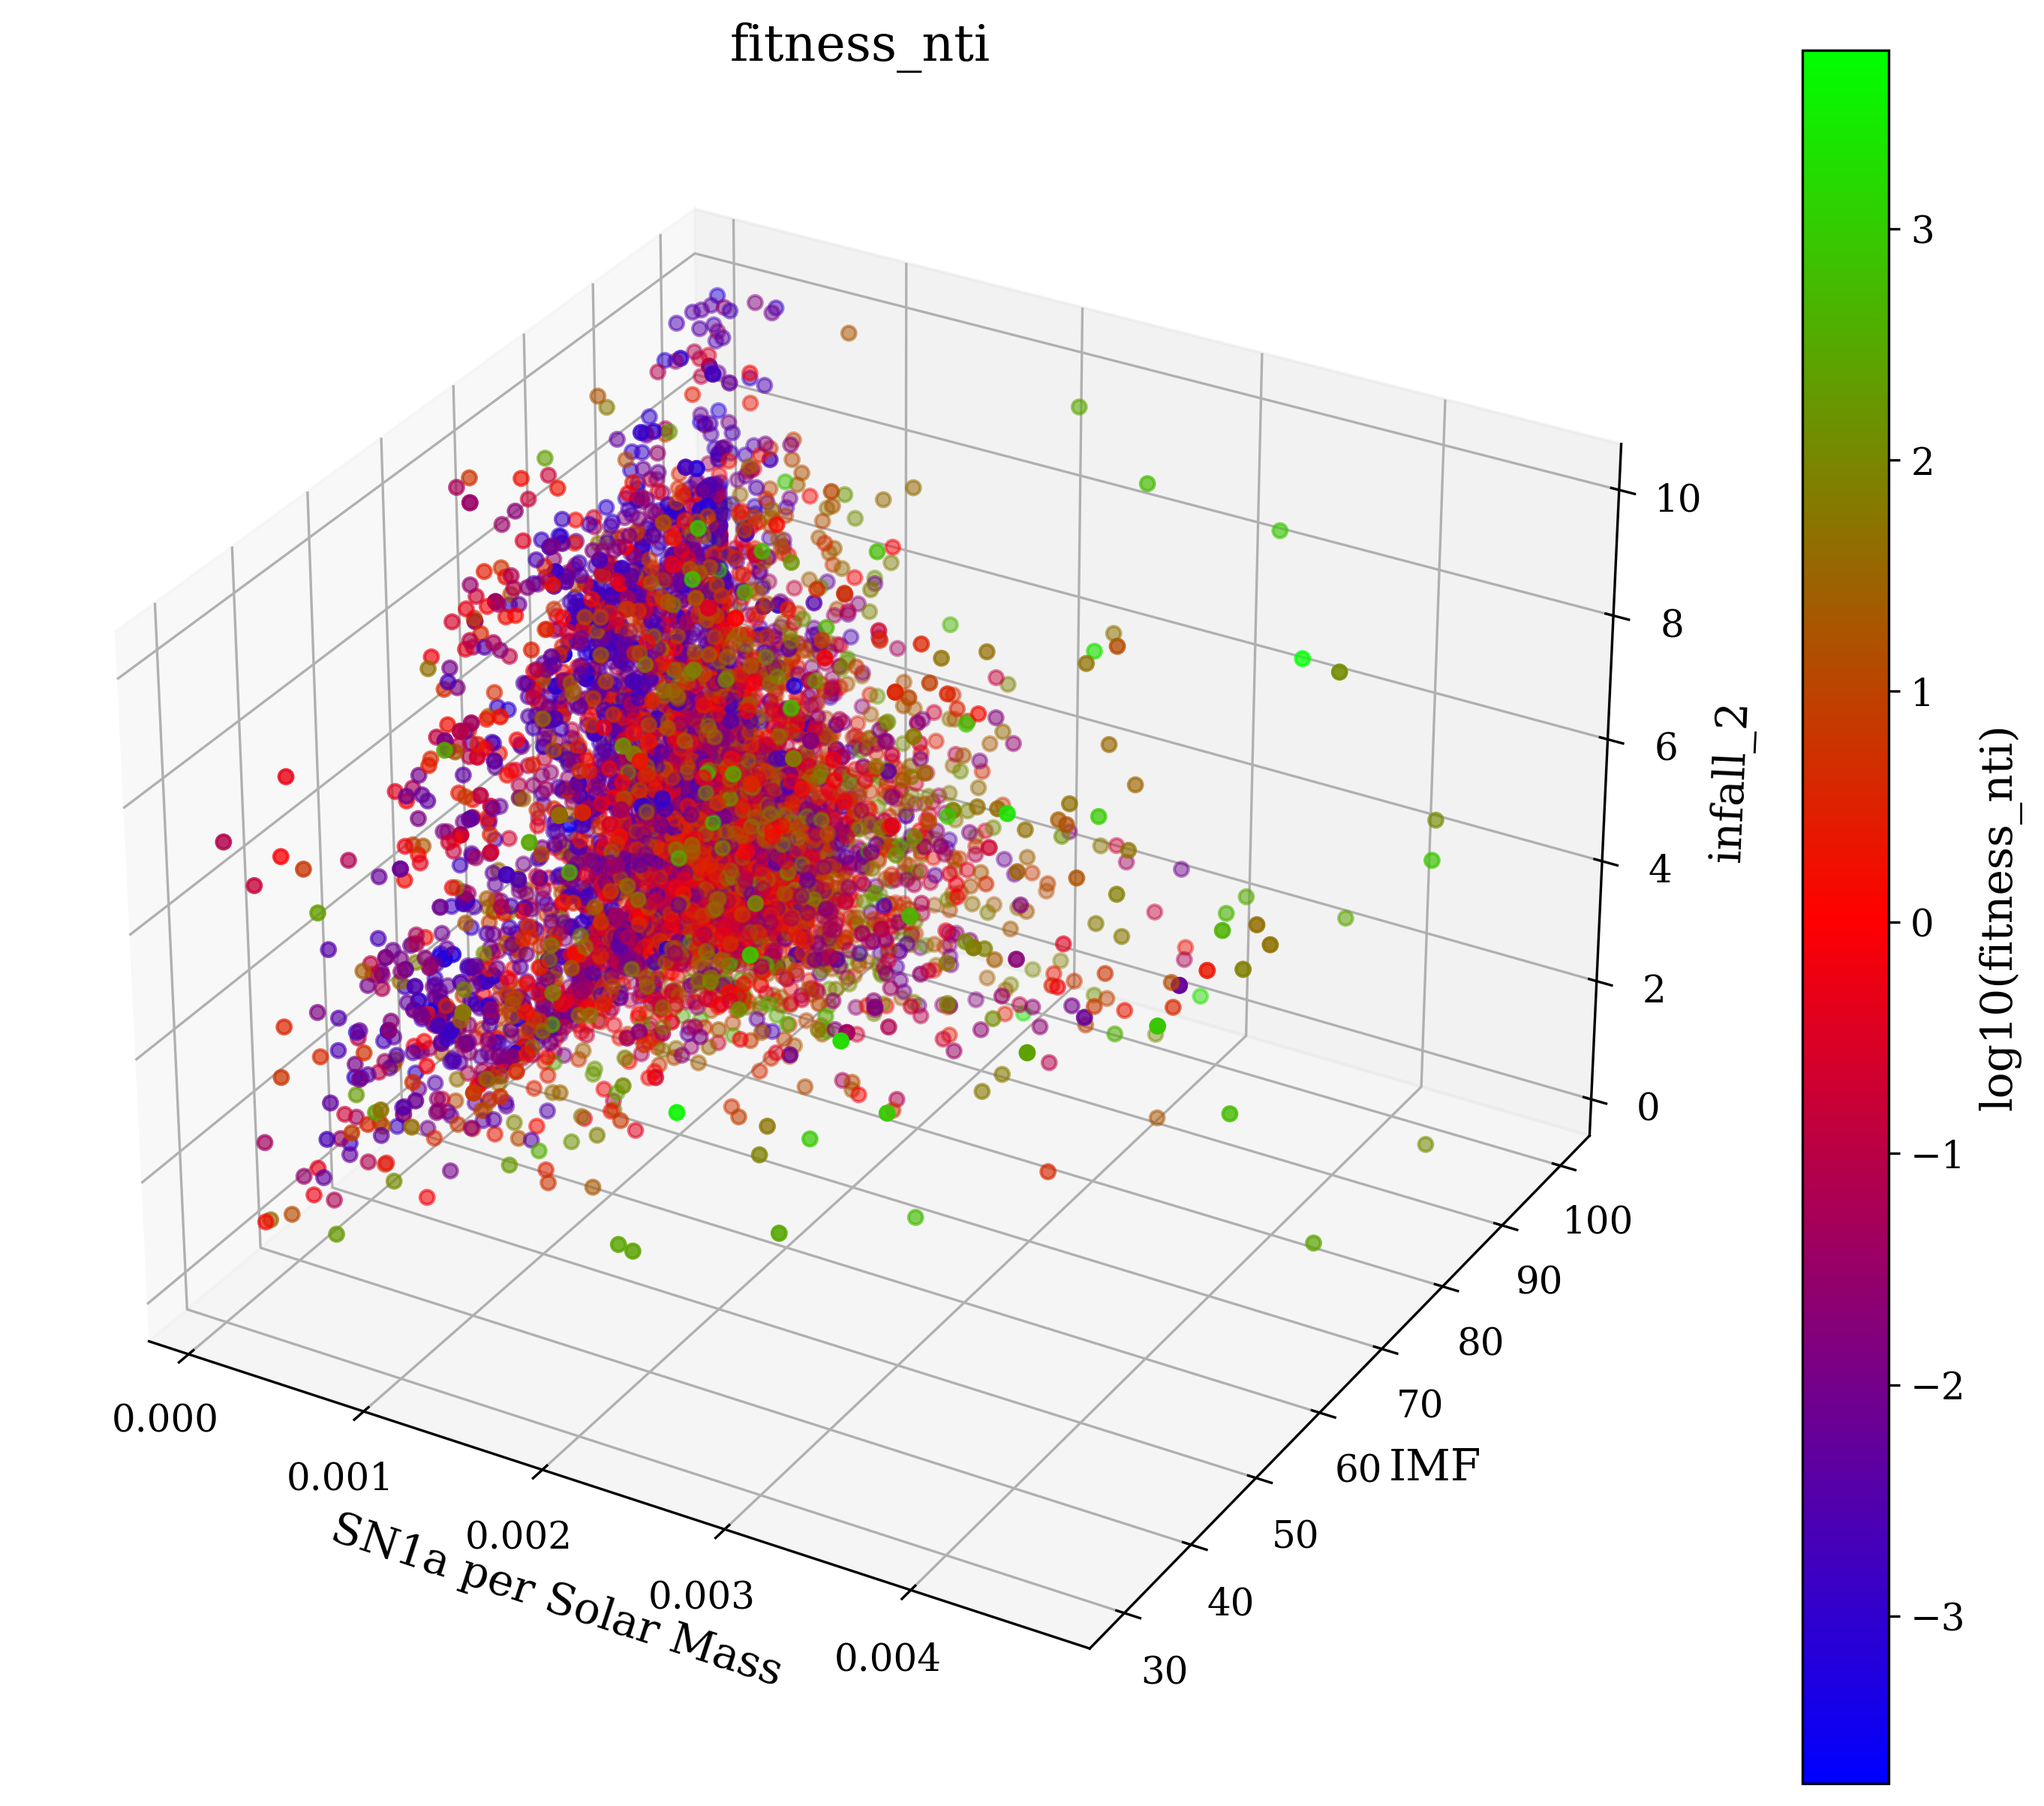
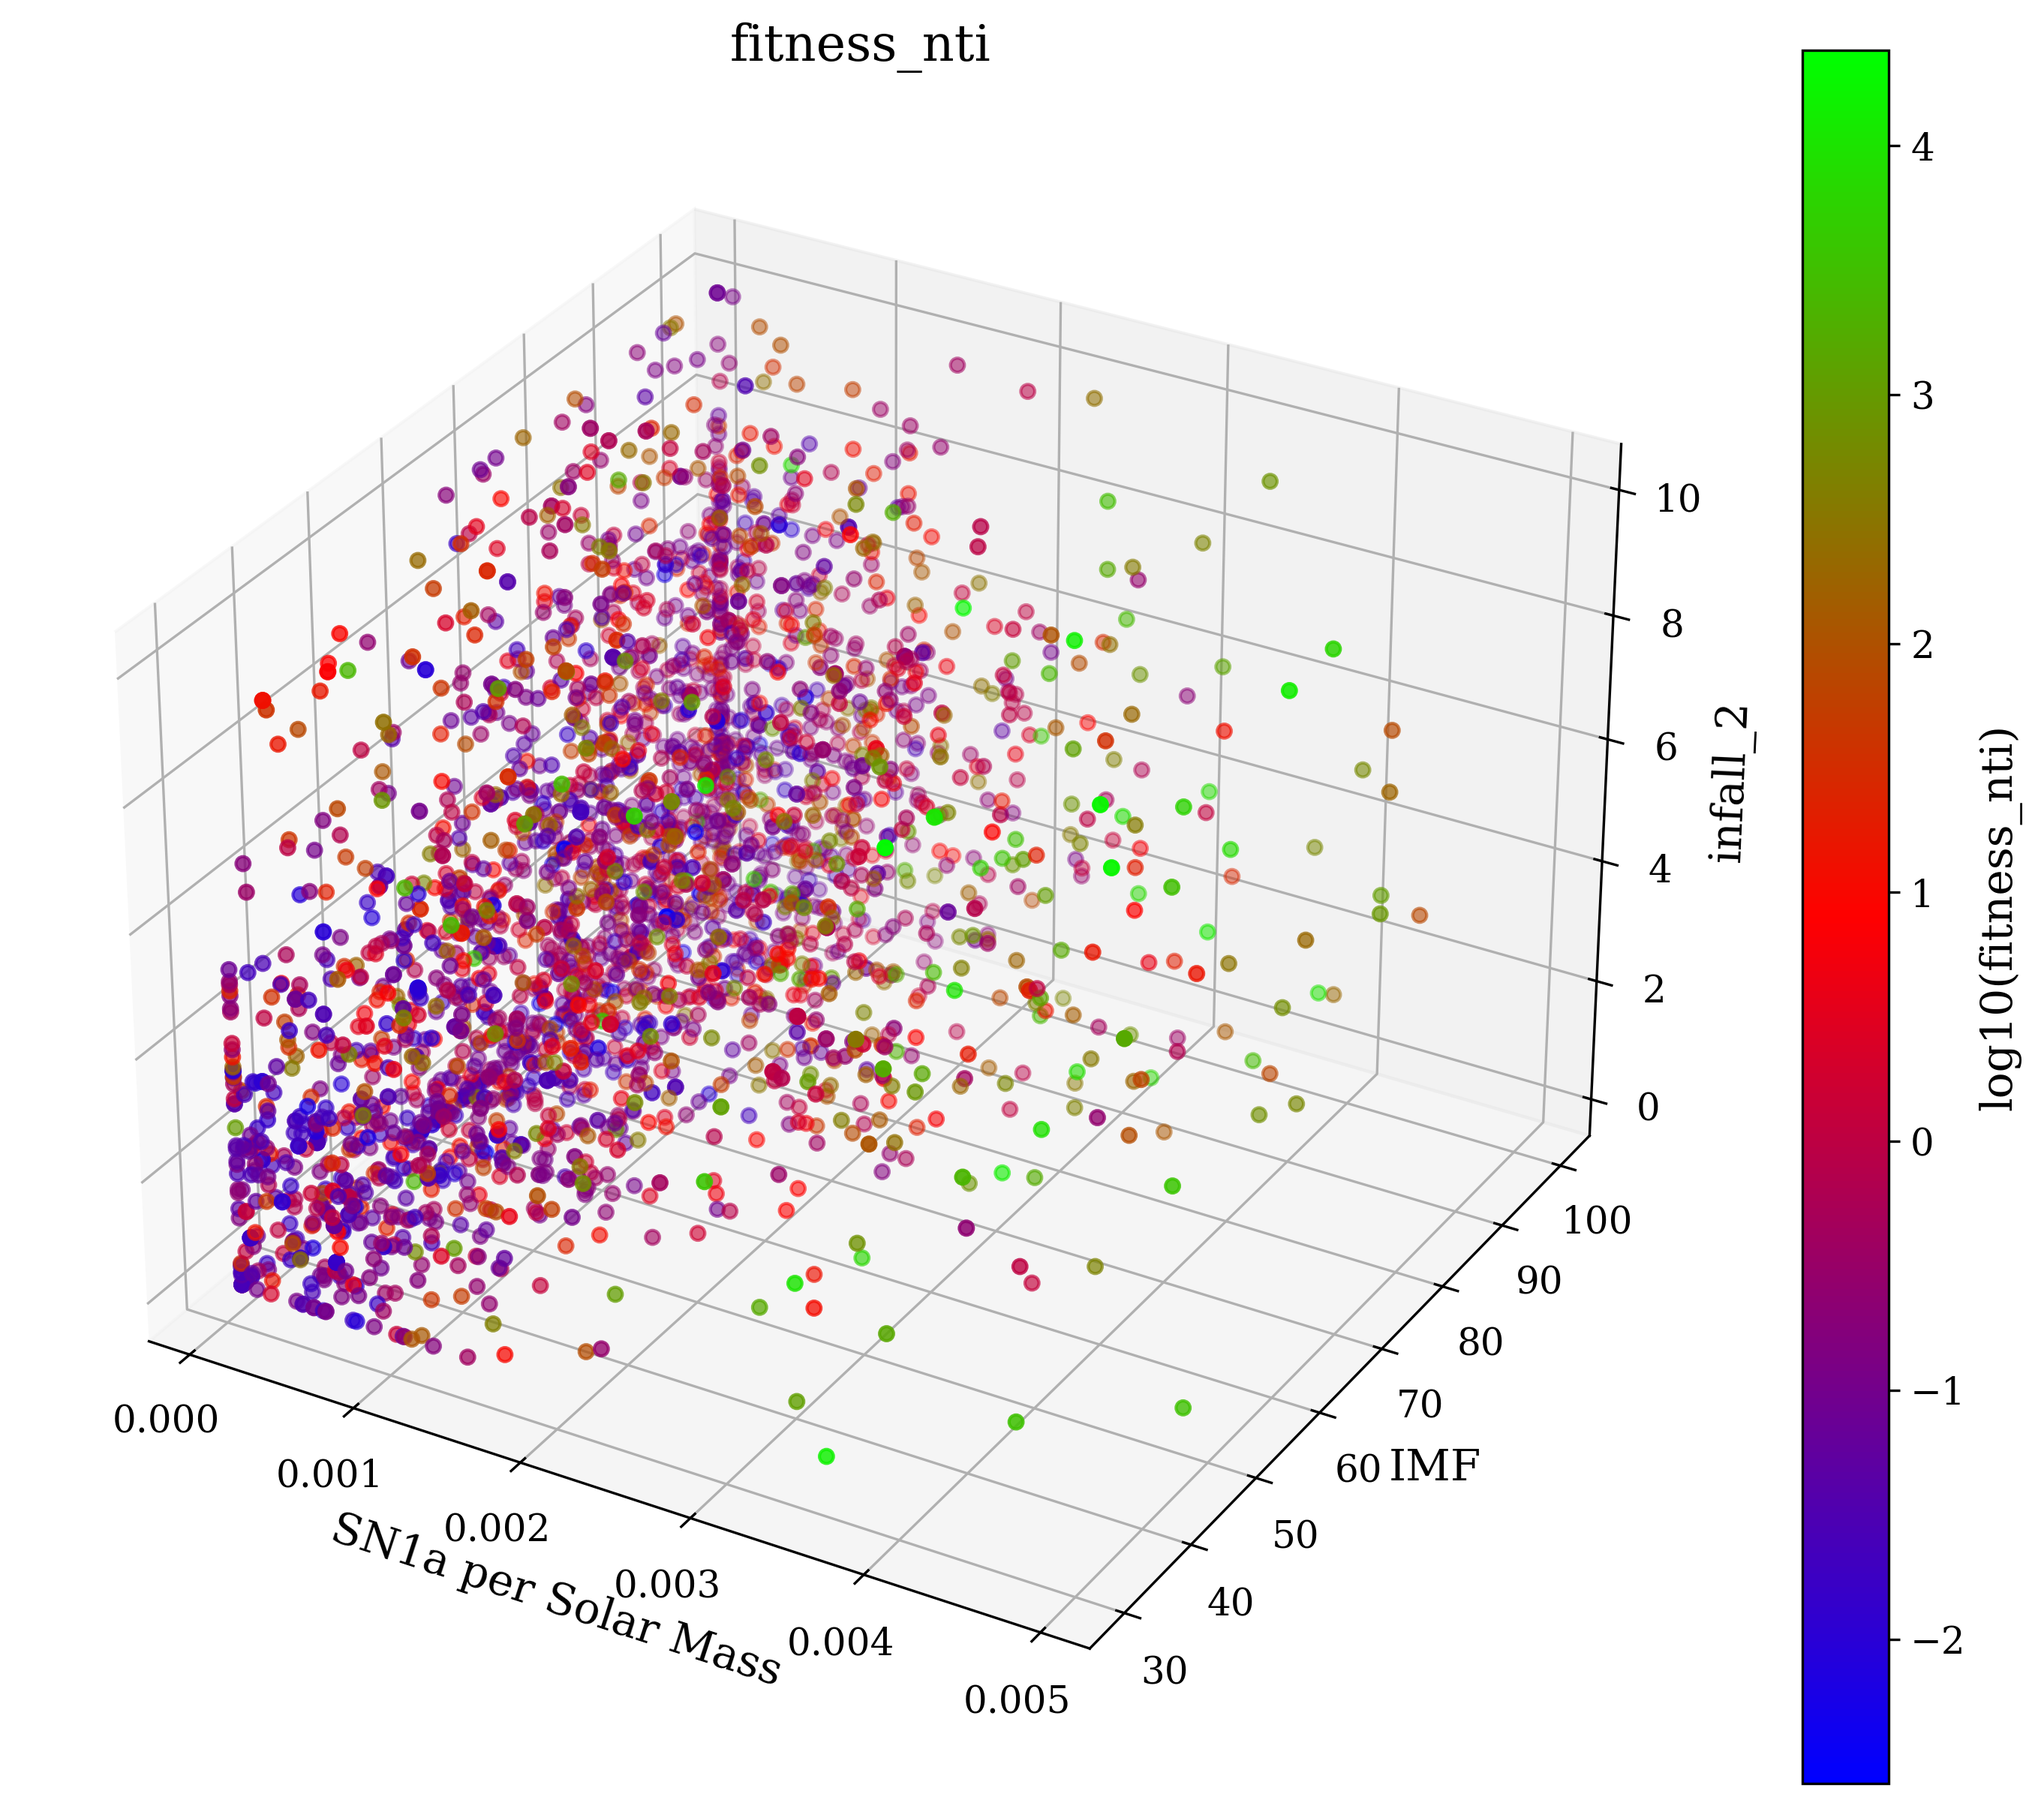
rates

diff --git a/Gal_GA_PP.py b/Gal_GA_PP.py
@@ -329,7 +329,7 @@ class GalacticEvolutionGA:
         toolbox.register("evaluate", self.evaluate)
 
         # Register genetic operations
-        toolbox.register("mate", self.crossover, max_bias=0.75)
+        toolbox.register("mate", self.crossover, max_bias=0.55)
 
         # Define different mutation functions based on fancy_mutation parameter
         if self.fancy_mutation.lower() == 'uniform':
@@ -483,34 +483,28 @@ class GalacticEvolutionGA:
                 individual[i] = min(max(individual[i], min_bound), max_bound)
 
 
-
     def update_operator_rates(self, population, generation, num_generations):
-        """Dynamically adjust operator rates based on progress and diversity"""
-        # Calculate population diversity
-        gene_array = np.array([ind for ind in population])
-        if len(gene_array) > 1:
-            # Calculate average pairwise distance
-            distances = []
-            for i in range(len(gene_array)):
-                for j in range(i+1, len(gene_array)):
-                    distances.append(np.linalg.norm(gene_array[i] - gene_array[j]))
-            diversity = np.mean(distances) if distances else 0
+        """Enhanced diversity preservation"""
+        progress = generation / num_generations
+        
+        # Calculate population diversity using continuous parameters only
+        continuous_genes = []
+        for ind in population:
+            continuous_genes.append(ind[5:])  # Skip categorical parameters
+        
+        if len(continuous_genes) > 1:
+            gene_array = np.array(continuous_genes)
+            diversity = np.mean(np.std(gene_array, axis=0))
         else:
             diversity = 0
         
-        # Get current progress through generations
-        progress = generation / num_generations
-        
-        # If diversity is low, increase mutation rate to explore more
-        if diversity < 0.2 * (self.sigma_2_max - self.sigma_2_min):
-            pass
-            #self.mutpb = min(self.mutpb * 1.1, 0.7)  # Increase mutation rate
-            #self.cxpb = max(self.cxpb * 0.9, 0.3)    # Decrease crossover rate
-
-        print(f"Generation {generation}: diversity = {diversity:.4f}, " 
-              f"mutpb = {self.mutpb:.2f}, cxpb = {self.cxpb:.2f}")
-
-
+        # Adaptive rates based on diversity
+        if diversity < 0.1:  # Low diversity = increase mutation
+            self.mutpb = min(0.9, self.mutpb * 1.2)
+            self.cxpb = max(0.2, self.cxpb * 0.8)
+        elif diversity > 0.5:  # High diversity = decrease mutation slightly
+            self.mutpb = max(0.3, self.mutpb * 0.95)
+            self.cxpb = min(0.6, self.cxpb * 1.05)
 
 
 
